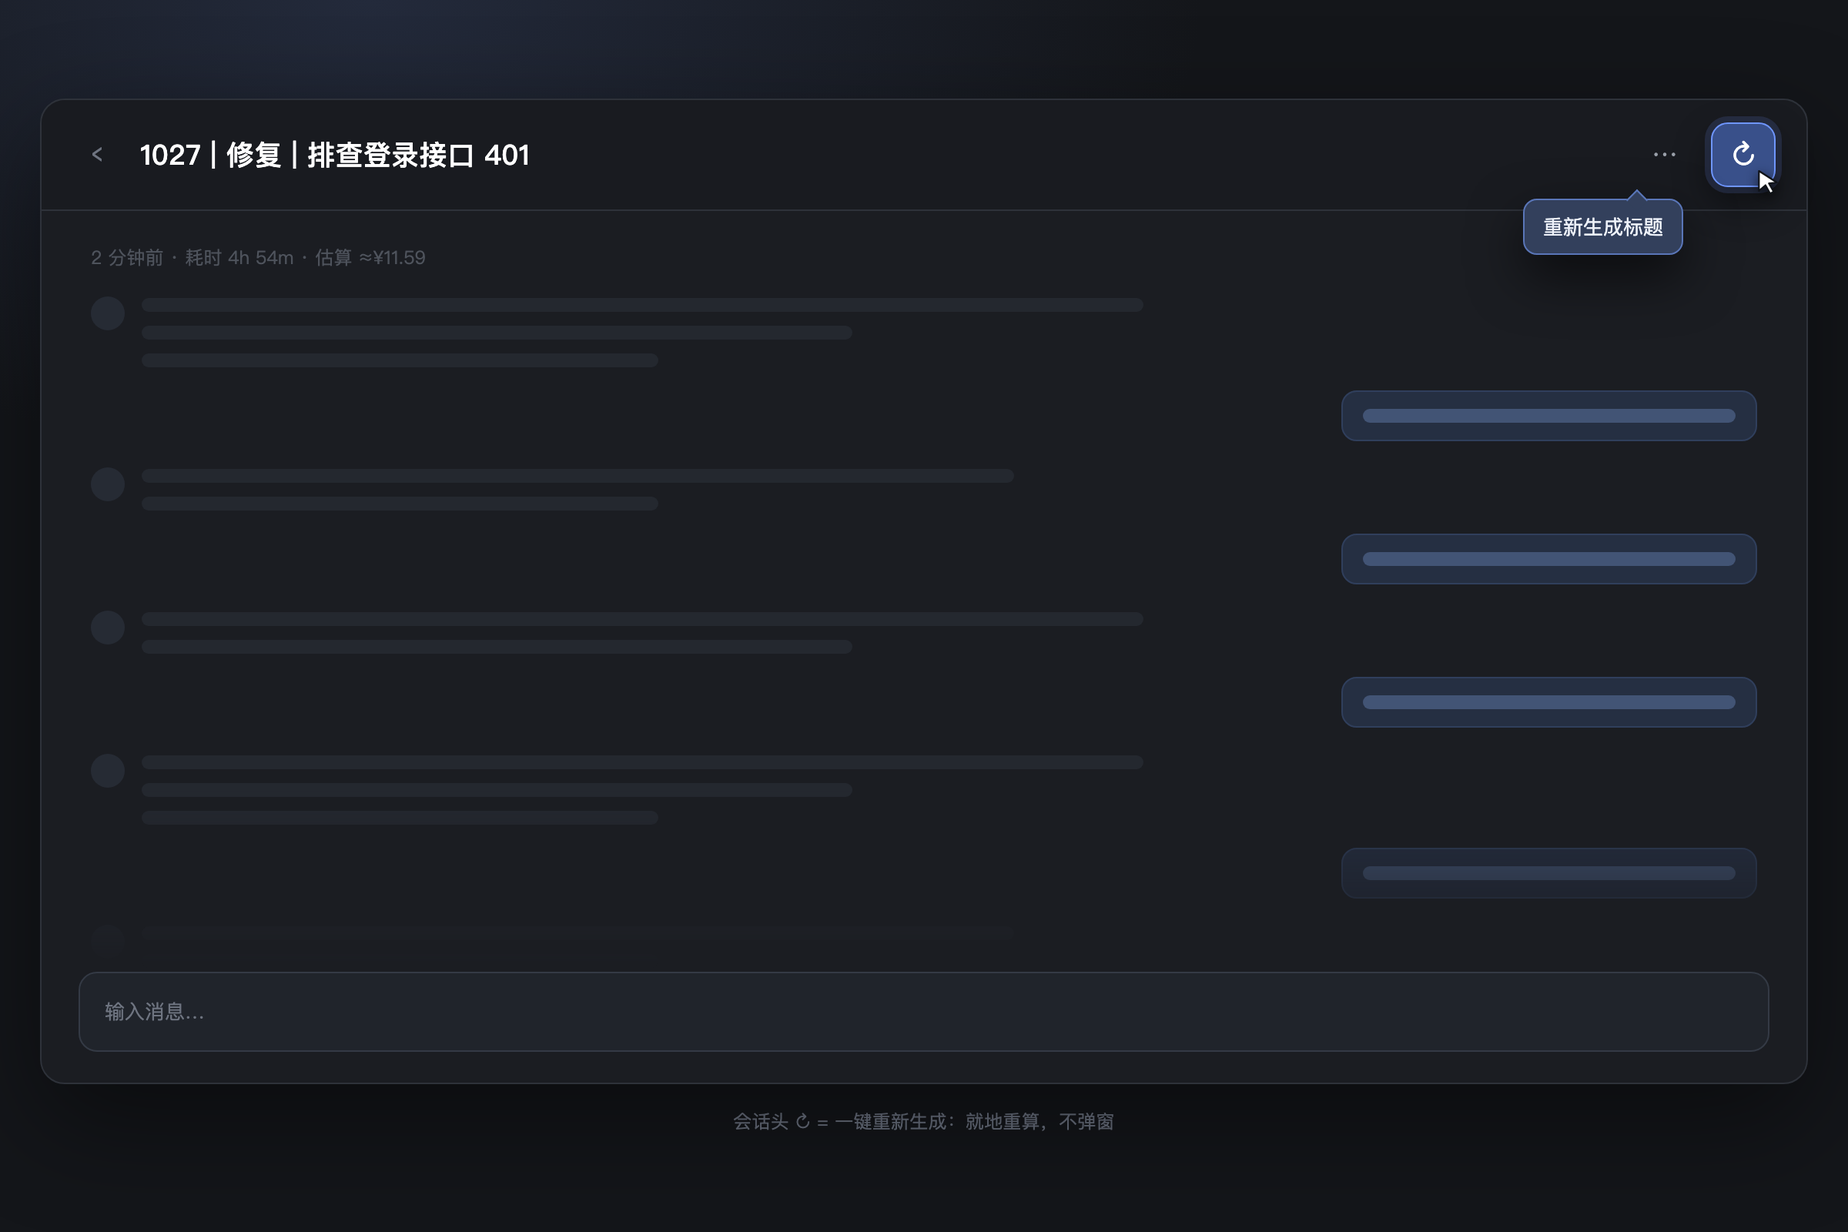
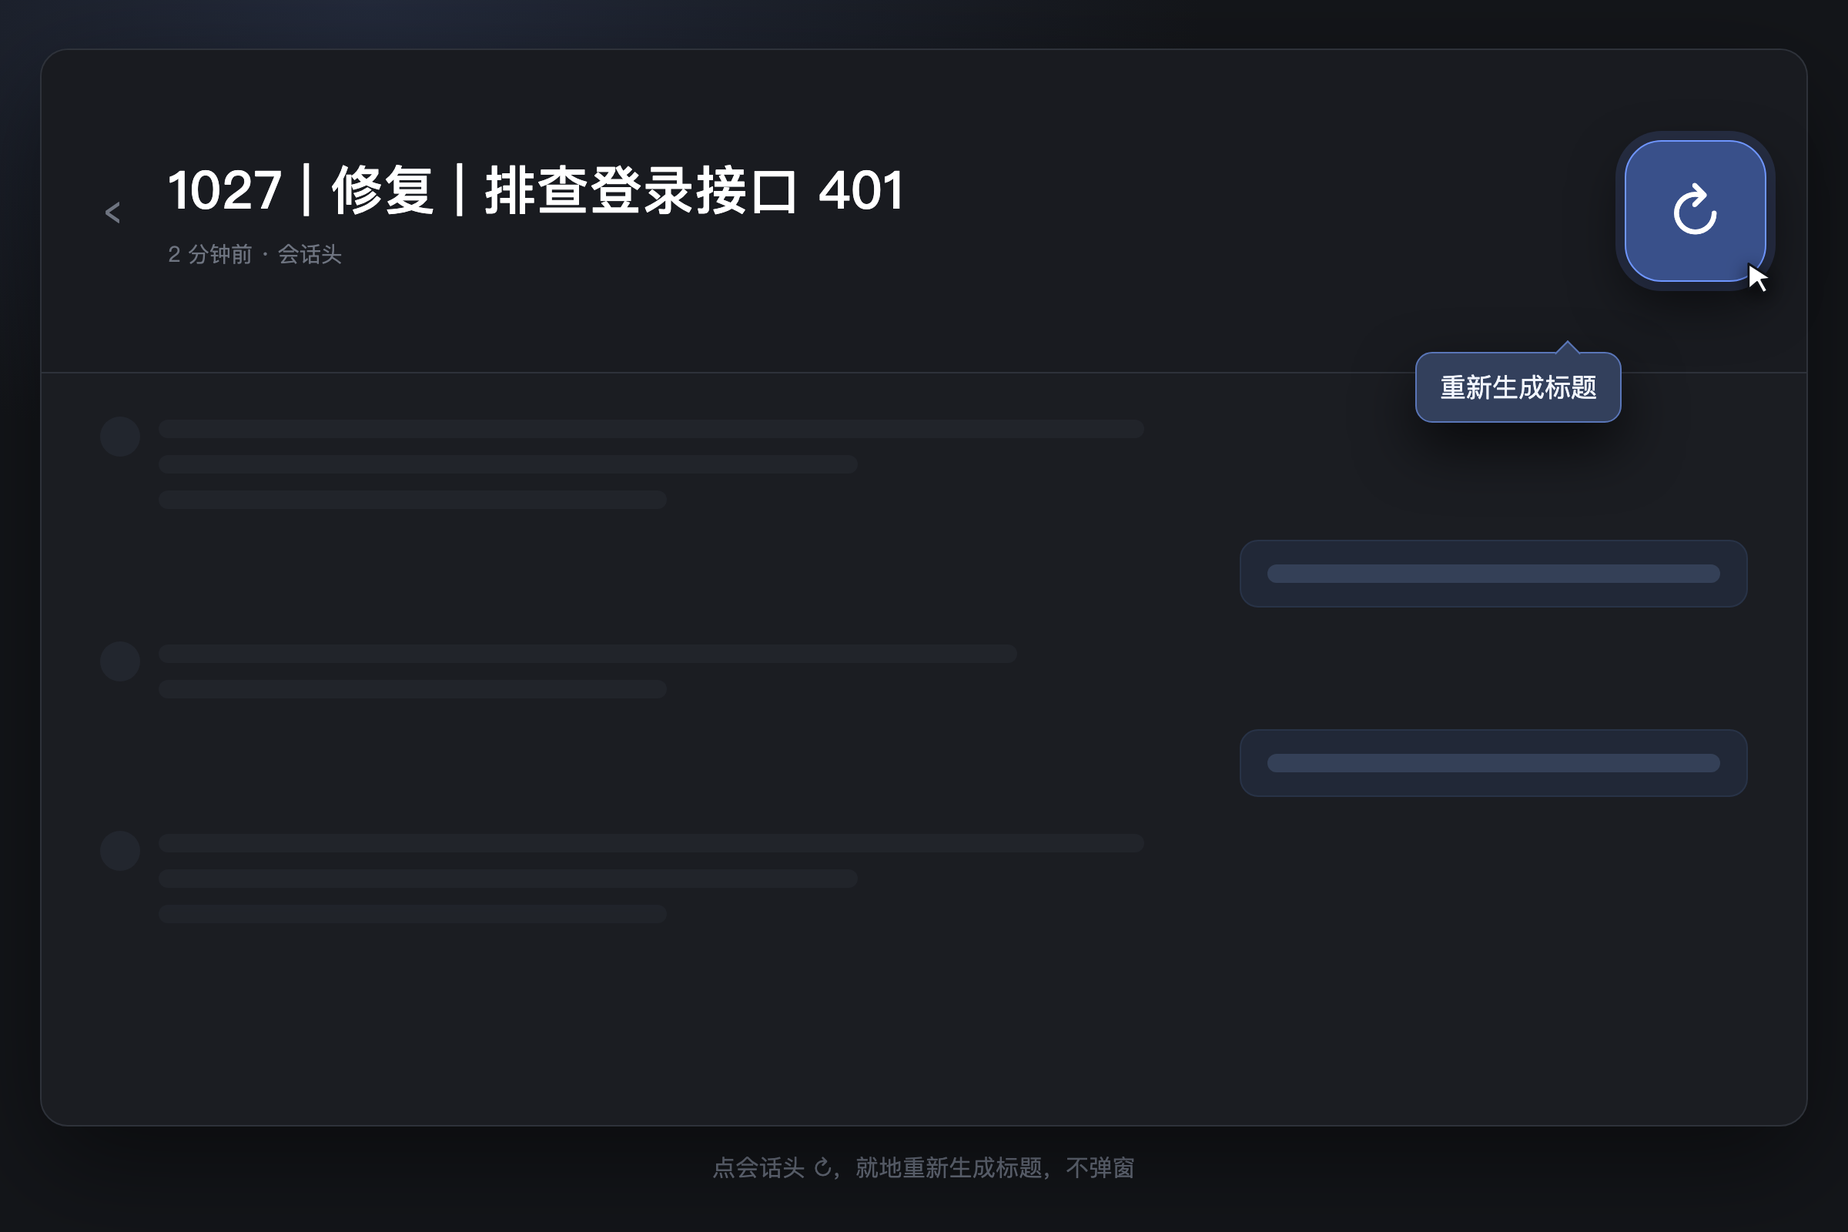
Release 0.9.0: Generate title leads the session menu

diff --git a/docs/screenshots/00-generate-title.html b/docs/screenshots/00-generate-title.html
@@ -3,56 +3,49 @@
 :root{--bg:#14161a;--panel:#1b1d22;--stroke:#2e323a;--text:#eceef2;--muted:#9aa0aa;--dim:#6e7480;--brand:#6f96ff}
 *{box-sizing:border-box}
 html,body{margin:0;height:100%;background:radial-gradient(900px 500px at 20% 0%,#232a3b 0%,transparent 60%),var(--bg);color:var(--text);font-family:"PingFang SC","SF Pro Display","Segoe UI",system-ui,sans-serif}
-body{display:flex;flex-direction:column;align-items:center;justify-content:center;gap:16px;padding:24px}
-.panel{position:relative;width:1148px;height:640px;background:var(--panel);border:1px solid var(--stroke);border-radius:16px;box-shadow:0 24px 70px #0007;display:flex;flex-direction:column}
-.top{height:72px;display:flex;align-items:center;gap:12px;padding:0 20px;border-bottom:1px solid var(--stroke);background:#191b20;border-radius:16px 16px 0 0}
-.back{width:32px;height:32px;border-radius:8px;display:grid;place-items:center;color:var(--dim);font-size:20px}
-.title{font-size:18px;font-weight:500;color:#fff;letter-spacing:.01em}
+body{display:flex;flex-direction:column;align-items:center;justify-content:center;gap:16px;padding:26px}
+.panel{position:relative;width:1148px;height:700px;background:var(--panel);border:1px solid var(--stroke);border-radius:18px;box-shadow:0 24px 70px #0007;display:flex;flex-direction:column}
+.top{height:210px;display:flex;align-items:center;gap:16px;padding:0 26px;border-bottom:1px solid var(--stroke);background:#191b20;border-radius:18px 18px 0 0}
+.back{width:40px;height:40px;border-radius:10px;display:grid;place-items:center;color:var(--dim);font-size:30px}
+.titles{display:flex;flex-direction:column;gap:8px;min-width:0}
+.title{font-size:34px;font-weight:500;color:#fff;letter-spacing:.01em;white-space:nowrap}
+.sub{font-size:14px;color:var(--dim)}
 .spacer{flex:1}
-.icon{width:36px;height:36px;border-radius:9px;display:grid;place-items:center;color:var(--muted);font-size:17px}
-.regen{position:relative;width:42px;height:42px;border-radius:11px;display:grid;place-items:center;color:#fff;font-size:19px;background:#39508a;border:1px solid var(--brand);box-shadow:0 0 0 4px #6f96ff26,0 10px 24px #0007}
-.cursor{position:absolute;right:-6px;bottom:-8px;filter:drop-shadow(0 2px 4px #000a)}
-.tip{position:absolute;right:80px;top:64px;background:#33405c;border:1px solid #5a76b8;border-radius:9px;padding:8px 12px;font-size:13px;color:#eef2fa;box-shadow:0 14px 34px #0009;white-space:nowrap;z-index:4}
-.tip:before{content:"";position:absolute;top:-5px;right:24px;width:9px;height:9px;background:#33405c;border-left:1px solid #5a76b8;border-top:1px solid #5a76b8;transform:rotate(45deg)}
-.body{flex:1;padding:22px 32px;display:flex;flex-direction:column;gap:15px;overflow:hidden;opacity:.62;-webkit-mask-image:linear-gradient(#000 76%,transparent 100%);mask-image:linear-gradient(#000 76%,transparent 100%)}
-.meta{color:var(--dim);font-size:12px}
-.msg{display:flex;gap:11px;align-items:flex-start}
-.msg .av{width:22px;height:22px;border-radius:50%;background:#2e3440;flex:none;margin-top:2px}
-.bars{display:flex;flex-direction:column;gap:9px;flex:1;padding-top:3px}
-.bar{height:9px;border-radius:5px;background:#2a2f38}
+.regen{position:relative;width:92px;height:92px;border-radius:24px;display:grid;place-items:center;color:#fff;font-size:40px;background:#39508a;border:1px solid var(--brand);box-shadow:0 0 0 6px #6f96ff26,0 14px 34px #0008}
+.cursor{position:absolute;right:-10px;bottom:-12px;filter:drop-shadow(0 3px 6px #000b)}
+.tip{position:absolute;right:120px;top:196px;background:#33405c;border:1px solid #5a76b8;border-radius:11px;padding:10px 15px;font-size:17px;color:#f2f6ff;box-shadow:0 16px 38px #000a;white-space:nowrap;z-index:4}
+.tip:before{content:"";position:absolute;top:-6px;right:28px;width:11px;height:11px;background:#33405c;border-left:1px solid #5a76b8;border-top:1px solid #5a76b8;transform:rotate(45deg)}
+.body{flex:1;padding:26px 38px;display:flex;flex-direction:column;gap:20px;overflow:hidden;opacity:.4;-webkit-mask-image:linear-gradient(#000 68%,transparent 100%);mask-image:linear-gradient(#000 68%,transparent 100%)}
+.msg{display:flex;gap:12px;align-items:flex-start}
+.msg .av{width:26px;height:26px;border-radius:50%;background:#2e3440;flex:none;margin-top:2px}
+.bars{display:flex;flex-direction:column;gap:11px;flex:1;padding-top:4px}
+.bar{height:12px;border-radius:6px;background:#2a2f38}
 .b70{width:70%}.b62{width:62%}.b54{width:54%}.b44{width:44%}.b32{width:32%}
 .msg.user{justify-content:flex-end}
-.bub{width:270px;background:#2c3a57;border:1px solid #3d5480;border-radius:10px;padding:11px 13px}
+.bub{width:330px;background:#2c3a57;border:1px solid #3d5480;border-radius:12px;padding:15px 17px}
 .bub .bar{background:#5b76a8}
-.composer{margin:0 24px 20px;height:52px;border:1px solid #343a45;border-radius:12px;background:#20242b;display:flex;align-items:center;padding:0 16px;color:#6e7480;font-size:13px}
-.cap{color:#6b7280;font-size:12px;letter-spacing:.01em}
+.cap{color:#6b7280;font-size:15px;letter-spacing:.01em}
 </style></head><body>
 <div class="panel">
   <div class="top">
     <div class="back">‹</div>
-    <div class="title">1027 | 修复 | 排查登录接口 401</div>
+    <div class="titles">
+      <div class="title">1027 | 修复 | 排查登录接口 401</div>
+      <div class="sub">2 分钟前 · 会话头</div>
+    </div>
     <div class="spacer"></div>
-    <div class="icon">⋯</div>
     <div class="regen">↻
-      <svg class="cursor" width="20" height="20" viewBox="0 0 24 24"><path d="M5 3l14 9-6.2.7 3.6 6.4-2.7 1.5-3.6-6.5L5 18.5z" fill="#fff" stroke="#101318" stroke-width="1.3" stroke-linejoin="round"/></svg>
+      <svg class="cursor" width="26" height="26" viewBox="0 0 24 24"><path d="M5 3l14 9-6.2.7 3.6 6.4-2.7 1.5-3.6-6.5L5 18.5z" fill="#fff" stroke="#101318" stroke-width="1.3" stroke-linejoin="round"/></svg>
     </div>
   </div>
   <div class="tip">重新生成标题</div>
   <div class="body">
-    <div class="meta">2 分钟前 · 耗时 4h 54m · 估算 ≈¥11.59</div>
     <div class="msg"><div class="av"></div><div class="bars"><div class="bar b62"></div><div class="bar b44"></div><div class="bar b32"></div></div></div>
     <div class="msg user"><div class="bub"><div class="bar"></div></div></div>
     <div class="msg"><div class="av"></div><div class="bars"><div class="bar b54"></div><div class="bar b32"></div></div></div>
     <div class="msg user"><div class="bub"><div class="bar"></div></div></div>
-    <div class="msg"><div class="av"></div><div class="bars"><div class="bar b62"></div><div class="bar b44"></div></div></div>
-    <div class="msg user"><div class="bub"><div class="bar"></div></div></div>
     <div class="msg"><div class="av"></div><div class="bars"><div class="bar b62"></div><div class="bar b44"></div><div class="bar b32"></div></div></div>
-    <div class="msg user"><div class="bub"><div class="bar"></div></div></div>
-    <div class="msg"><div class="av"></div><div class="bars"><div class="bar b54"></div><div class="bar b32"></div></div></div>
-    <div class="msg user"><div class="bub"><div class="bar"></div></div></div>
-    <div class="msg"><div class="av"></div><div class="bars"><div class="bar b62"></div><div class="bar b44"></div></div></div>
   </div>
-  <div class="composer">输入消息…</div>
 </div>
-<div class="cap">会话头 ↻ = 一键重新生成：就地重算，不弹窗</div>
+<div class="cap">点会话头 ↻，就地重新生成标题，不弹窗</div>
 </body></html>

diff --git a/docs/screenshots/01-session-list.html b/docs/screenshots/01-session-list.html
@@ -19,11 +19,14 @@ body{display:flex;align-items:center;justify-content:center;padding:26px}
 .row.active{background:#272c36;box-shadow:inset 2px 0 0 var(--brand)}
 .row .time{margin-left:auto;color:var(--dim);font-size:10px}
 .row .more{margin-left:auto;color:var(--brand);font-size:14px;letter-spacing:2px;background:#313746;border-radius:6px;padding:0 6px;line-height:20px}
-.menu{position:absolute;right:4px;top:33px;width:216px;padding:6px;background:#2b303a;border:1px solid #414a5c;border-radius:11px;box-shadow:0 18px 46px #000b,0 0 0 1px #4a5a7a33;z-index:5}
+.menu{position:absolute;right:4px;top:33px;width:240px;padding:6px;background:#2b303a;border:1px solid #414a5c;border-radius:11px;box-shadow:0 18px 46px #000b,0 0 0 1px #4a5a7a33;z-index:5}
 .mi{display:flex;align-items:center;gap:9px;height:34px;padding:0 10px;border-radius:7px;color:#dfe3ea;font-size:13px}
-.mi .ico{width:15px;text-align:center;color:#9aa0aa;font-size:13px}
+.mi svg{width:15px;height:15px;flex:none;stroke:currentColor;fill:none;stroke-width:1.4;stroke-linecap:round;stroke-linejoin:round;color:#9aa0aa}
+.mi .label{flex:1;min-width:0;overflow:hidden;text-overflow:ellipsis;white-space:nowrap}
+.mi .kbd{margin-left:auto;color:#6e7480;font-size:11px;letter-spacing:.02em}
+.mi .chev{margin-left:auto;color:#6e7480;font-size:13px}
 .mi.on{background:#33405c;color:#fff;font-weight:600;box-shadow:inset 2px 0 0 var(--brand)}
-.mi.on .ico{color:var(--brand)}
+.mi.on svg{color:var(--brand)}
 .sep{height:1px;background:#3a4150;margin:4px 8px}
 .card{width:426px;margin-top:34px;background:#23262c;border:1px solid #343840;border-radius:13px;padding:16px 17px;box-shadow:0 18px 45px #0008}
 .card .t{font-size:15px;line-height:23px;color:#fff;font-weight:500}
@@ -43,9 +46,17 @@ body{display:flex;align-items:center;justify-content:center;padding:26px}
       <div class="rowline">
         <div class="row active"><span class="dot"></span><span class="title">1027 | 修复 | 排查登录接口 401</span><span class="more">⋯</span></div>
         <div class="menu">
-          <div class="mi on"><span class="ico">↻</span>自动生成标题</div>
+          <div class="mi on"><svg viewBox="0 0 16 16"><path d="M13.5 8a5.5 5.5 0 1 1-1.6-3.9"/><path d="M13.5 2v4h-4"/></svg><span class="label">自动生成标题</span></div>
           <div class="sep"></div>
-          <div class="mi"><span class="ico">⧉</span>复制标题</div>
+          <div class="mi"><svg viewBox="0 0 16 16"><circle cx="8" cy="6" r="3"/><path d="M8 9v5"/></svg><span class="label">置顶会话</span></div>
+          <div class="mi"><svg viewBox="0 0 16 16"><path d="M3 13l1-3 7-7 2 2-7 7z"/></svg><span class="label">重命名</span><span class="kbd">⌥ ⌘ G</span></div>
+          <div class="mi"><svg viewBox="0 0 16 16"><circle cx="5" cy="3.5" r="1.4"/><circle cx="5" cy="12.5" r="1.4"/><circle cx="11.5" cy="5" r="1.4"/><path d="M5 5v6M11.5 6.5c0 3-6.5 1.5-6.5 4.5"/></svg><span class="label">分叉会话</span><span class="kbd">⌥ ⌘ F</span></div>
+          <div class="sep"></div>
+          <div class="mi"><svg viewBox="0 0 16 16"><rect x="5.5" y="5.5" width="7" height="8" rx="1.5"/><path d="M3.5 10.5v-7h7"/></svg><span class="label">复制 Session ID</span></div>
+          <div class="mi"><svg viewBox="0 0 16 16"><path d="M6 10l6.5-6.5M8 3.5h4.5V8"/></svg><span class="label">在应用中打开</span><span class="chev">›</span></div>
+          <div class="mi"><svg viewBox="0 0 16 16"><rect x="5.5" y="5.5" width="7" height="8" rx="1.5"/><path d="M3.5 10.5v-7h7"/></svg><span class="label">复制标题</span></div>
+          <div class="sep"></div>
+          <div class="mi"><svg viewBox="0 0 16 16"><rect x="2.5" y="5" width="11" height="7.5" rx="1"/><path d="M1.5 2.5h13v2.5h-13z"/></svg><span class="label">归档会话</span><span class="kbd">⌘ A</span></div>
         </div>
       </div>
       <div class="row"><span class="dot"></span><span class="title">1027 | 发布 | Ubuntu 环境初始化</span><span class="time">1 天前</span></div>

diff --git a/client.js b/client.js
@@ -675,6 +675,50 @@ window.__ModuleLoader__.load({
       ctx.effect?.(() => () => style.remove())
     }
 
+    const SESSION_MENU_ICON_KEY = 'session-title-stamp.retitle'
+
+    /** The context-menu service exists from DSH 0.2.2 on; older hosts keep the legacy Slot row. */
+    function sessionMenuService(ctx) {
+      try {
+        return typeof ctx.get === 'function' ? ctx.get('contextMenus') : undefined
+      } catch {
+        return undefined
+      }
+    }
+
+    function registerSessionMenuAction(scope, menus, { run, t }) {
+      try {
+        scope.slots.inject('contextMenu.icon', () =>
+          scope.slots.register({ name: 'contextMenu.icon', key: SESSION_MENU_ICON_KEY }, RefreshIcon),
+        )
+        scope.effect?.(() =>
+          menus.register({
+            id: 'session-title-stamp.retitle',
+            target: 'session',
+            order: 10,
+            resolve: ({ sessionId }) => [
+              {
+                id: 'retitle',
+                label: t('menu'),
+                icon: { key: SESSION_MENU_ICON_KEY },
+                run: async () => {
+                  try {
+                    await run(sessionId)
+                  } catch (error) {
+                    menus.notify?.(String(error?.message ?? error), false)
+                  }
+                },
+              },
+            ],
+          }),
+        )
+        return true
+      } catch (error) {
+        console.warn('session-title-stamp: context menu unavailable, keeping the Slot row', error)
+        return false
+      }
+    }
+
     function apply(ctx) {
       installStyle(ctx)
       ctx.effect?.(() => ctx.locale.register(NS, DICT))
@@ -704,17 +748,32 @@ window.__ModuleLoader__.load({
         ),
       )
 
-      ctx.slots.inject('sidebar.workspaces.session.menu.item', () =>
-        ctx.slots.register(
-          {
-            name: 'sidebar.workspaces.session.menu.item',
-            id: 'session-title-stamp-retitle',
-            order: 0,
-            inject: () => ({ run, t }),
-          },
-          RegenerateMenuItem,
-        ),
-      )
+      const menus = sessionMenuService(ctx)
+      let dataMenu = typeof menus?.register === 'function' ? registerSessionMenuAction(ctx, menus, { run, t }) : false
+      if (!dataMenu) {
+        let disposeLegacyMenu
+        ctx.slots.inject('sidebar.workspaces.session.menu.item', () => {
+          if (dataMenu) return undefined
+          disposeLegacyMenu = ctx.slots.register(
+            {
+              name: 'sidebar.workspaces.session.menu.item',
+              id: 'session-title-stamp-retitle',
+              order: 0,
+              inject: () => ({ run, t }),
+            },
+            RegenerateMenuItem,
+          )
+          return disposeLegacyMenu
+        })
+        ctx.inject?.(['contextMenus'], (scope) => {
+          if (dataMenu) return
+          const service = scope.contextMenus ?? sessionMenuService(scope)
+          if (typeof service?.register !== 'function') return
+          if (!registerSessionMenuAction(scope, service, { run, t })) return
+          dataMenu = true
+          disposeLegacyMenu?.()
+        })
+      }
 
       ctx.slots.inject('sidebar.workspaces.session.menu.item', () =>
         ctx.slots.register(

diff --git a/README.zh.md b/README.zh.md
@@ -4,7 +4,7 @@
 
 给 DSH 会话一个稳定的「日期 | 分类 | 名称」标题。除了自动命名，还包括：
 
-- **一键重新生成**：会话头 ↻ 按钮、会话行 `···` 菜单「自动生成标题」，或 `/retitle`；点一下就地改名，不弹窗。
+- **一键重新生成**：会话头 ↻ 按钮、会话菜单第一项「自动生成标题」，或 `/retitle`；点一下就地改名，不弹窗。
 - **自动重算**：回答完成后更新，2 分钟冷却，超过 100 条消息后冻结；fork、子代理和手动固定的标题跳过。
 - **复制标题**：会话行 `···` 菜单多一项复制完整标题。
 - **设置页**：可视化调整格式、emoji、标题语言和重算节奏，带实时预览，不用改 YAML。
@@ -61,7 +61,7 @@
 在 **插件 → 发现（Discover）→ 索引源** 添加：
 
 ```text
-https://cdn.jsdelivr.net/gh/xuedipiaofei/dsh-session-title-stamp@v0.8.3/market/index.json
+https://cdn.jsdelivr.net/gh/xuedipiaofei/dsh-session-title-stamp@v0.9.0/market/index.json
 ```
 
 然后在列表里安装 **Session title stamp / 会话标题印章**。插件以 profile bundle 的形式安装，之后可在插件页启停。
@@ -226,6 +226,7 @@ fork 子会话、子代理会话，以及用户手动改名固定的标题都会
 - bundle 依赖内置行 id `session-title-llm`。如果已有其它标题 provider 先注册，本插件会打 warn 并保持 inactive；先停用另一个再重载。
 - `llm`、`commands`、`sessions`、`sessionProjections`、`connection` 都采用延迟注入；缺少哪个只损失对应能力，不影响插件加载。
 - 浏览器半边依赖 Web 组合的 `sidebar.session.row.hover` 和 `conversation.session.header.actions` 座位；没有这两个座位的 shell 不会显示按钮/悬停行。
+- 在 DSH 0.2.2+「自动生成标题」是会话菜单的第一项（在「置顶会话」之上）；0.2.1 没有 context-menu 服务，同一动作走旧 Slot，排在「归档会话」之前。
 - 插件动态 import `@deepseek-ai/dsh-session-title-llm`。执行器缺失或不兼容时会降级为本地命名；如果 `ctx.sessionTitle` API 本身变化，则可能无法注册。
 
 ## 开发

diff --git a/README.md b/README.md
@@ -9,9 +9,9 @@ English | [中文](./README.zh.md)
 A DeepSeek Harness title provider for a configurable `DATE | CATEGORY | NAME`
 title. Beyond automatic naming:
 
-- **Generate title on demand** — the conversation-header ↻ button, the session
-  row's **Generate title** menu item, or `/retitle`. One click renames the
-  session in place, no dialog.
+- **Generate title on demand** — the conversation-header ↻ button, the first
+  row of the session menu (**Generate title**), or `/retitle`. One click
+  renames the session in place, no dialog.
 - **Auto refresh** — after a completed turn, with a 2-minute cooldown and a
   100-message freeze; forks and user-pinned titles are skipped.
 - **Copy title** — an extra item in the session `···` menu copies the full title.
@@ -80,7 +80,7 @@ and mirrors conventions used by other coding agents.
 Add this market index source in **Plugins → Discover → Index sources**:
 
 ```text
-https://cdn.jsdelivr.net/gh/xuedipiaofei/dsh-session-title-stamp@v0.8.3/market/index.json
+https://cdn.jsdelivr.net/gh/xuedipiaofei/dsh-session-title-stamp@v0.9.0/market/index.json
 ```
 
 Then install **Session title stamp** from the list. The plugin installs as a
@@ -301,6 +301,9 @@ labels and the local fallback maps common keywords onto them.
 - The browser half needs the Web composition's `sidebar.session.row.hover` and
   `conversation.session.header.actions` seats. A shell that does not expose them
   simply shows no button/hover line.
+- On DSH 0.2.2+ the session menu action is a data contribution and sorts above
+  **Pin**; on 0.2.1, which has no context-menu service, the same action renders
+  through the legacy Slot just above **Archive**.
 - The provider imports `@deepseek-ai/dsh-session-title-llm` dynamically. A
   missing or incompatible executor degrades to local naming, but a changed
   `ctx.sessionTitle` API can prevent registration. Pin the DSH range when

diff --git a/PUBLISHING.md b/PUBLISHING.md
@@ -4,6 +4,7 @@ This repository is already shaped as a DSH bundle and a format-1 market entry.
 
 ## Current releases
 
+- **0.9.0 (2026-11-17)**: Generate title is the first session-menu row on DSH 0.2.2+.
 - **0.8.3 (2026-11-16)**: header Generate title shot; action screenshots lead the gallery.
 - **0.8.2 (2026-11-15)**: listing leads with one-click Generate title; refreshed first screenshot.
 - **0.8.1 (2026-11-10)**: screenshots gallery and packaged screenshots.
@@ -205,7 +206,7 @@ Commit and push the index change.
 Use jsDelivr over GitHub (HTTPS, no redirects, no Pages setup):
 
 ```text
-https://cdn.jsdelivr.net/gh/xuedipiaofei/dsh-session-title-stamp@v0.8.3/market/index.json
+https://cdn.jsdelivr.net/gh/xuedipiaofei/dsh-session-title-stamp@v0.9.0/market/index.json
 ```
 
 Prefer the tag URL: jsDelivr caches `@main` for a long time, and a cached copy

diff --git a/CHANGELOG.md b/CHANGELOG.md
@@ -1,5 +1,13 @@
 # Changelog
 
+## 0.9.0 — 2026-11-17
+
+- The session menu action is now a context-menu data contribution: on DSH
+  0.2.2+ **Generate title** is the first row, above Pin; 0.2.1 keeps the legacy
+  Slot row above Archive.
+- Refreshed both action screenshots: a larger header shot and the menu with the
+  action on top.
+
 ## 0.8.3 — 2026-11-16
 
 - New conversation-header screenshot for one-click Generate title; both action
